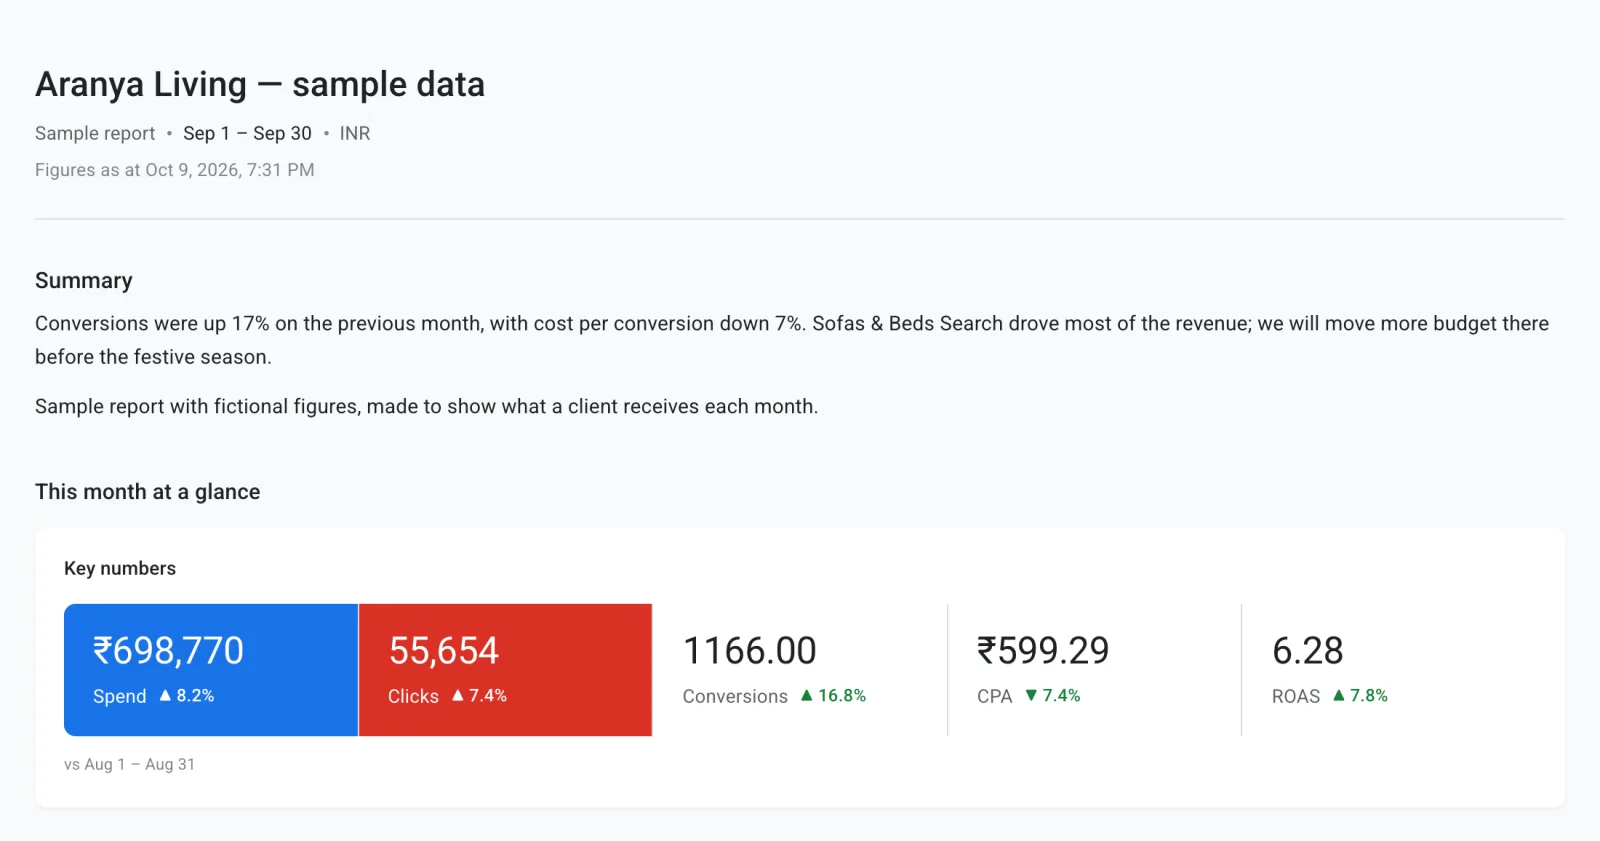
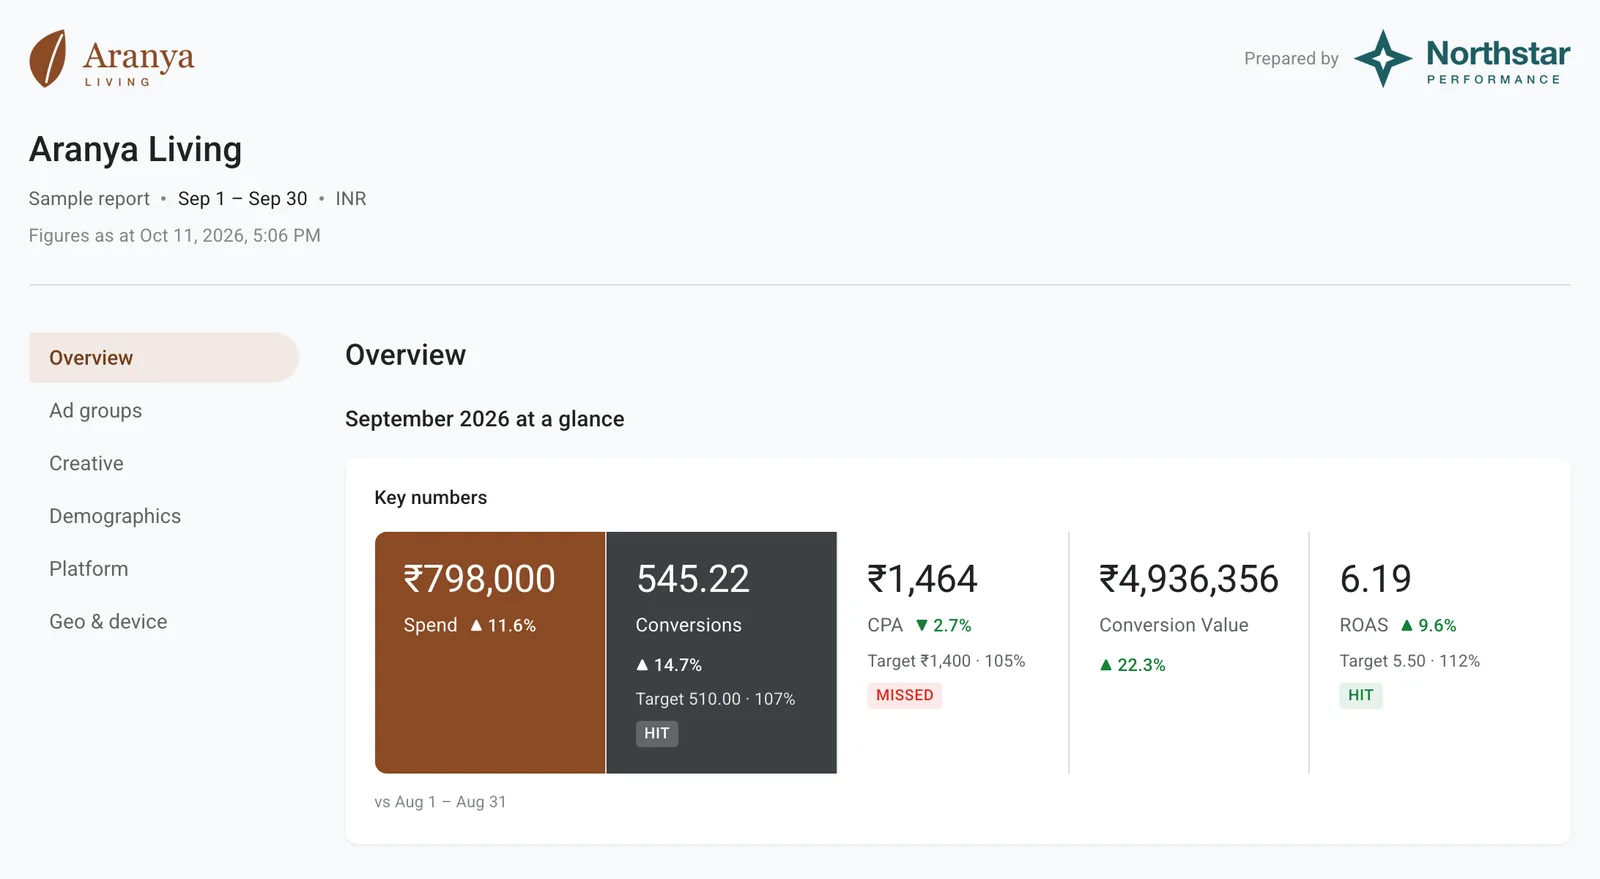
Homepage: screenshots of the six-page sample, and a button that opens it
The screenshots and link-preview image now show the new sample report: the client's and the
agency's logos, the page menu, headline numbers against targets, the campaign table against
last month with its note, and the daily trend with its note. "See a sample report" opens the
live sample instead of scrolling to the screenshot.

diff --git a/index.html b/index.html
@@ -45,15 +45,15 @@
         </p>
         <div class="cta-row">
           <a class="btn btn-primary" href="https://roster-1035727789436.asia-southeast1.run.app/signup" data-cta="hero_signup">Get started free</a>
-          <a class="btn btn-quiet" href="#report" data-sample-link data-cta="hero_sample">See a sample report</a>
+          <a class="btn btn-quiet" href="https://roster-1035727789436.asia-southeast1.run.app/s/0MCZfSW692qh3RDzP3k-OvG4_78guCCv" target="_blank" rel="noopener" data-sample-link data-cta="hero_sample">See a sample report</a>
         </div>
         <p class="cta-note">Free during early access. No card needed.</p>
       </div>
 
       <figure class="shot shot-hero">
         <div class="shot-frame">
-          <img src="img/report-hero.webp" width="1600" height="841"
-               alt="A client's monthly Google Ads report in Roster: a written summary, then spend, clicks, conversions, cost per conversion and ROAS, each compared with the previous month." />
+          <img src="img/report-hero.webp" width="1600" height="879"
+               alt="A client's monthly Google Ads report: the client's logo and 'Prepared by' the agency's, a menu of six pages, and spend, conversions, cost per conversion, conversion value and ROAS, each compared with the previous month and checked against the client's targets." />
         </div>
         <figcaption>A sample report, with fictional figures.</figcaption>
       </figure>
@@ -117,8 +117,8 @@
       <div class="band-head">
         <h2>What your client receives</h2>
         <p>
-          A clean, consistent report every month, in the client's own currency, with your
-          commentary at the top.
+          A clean, consistent report every month, in the client's own currency and under your
+          agency's name, with your notes beside the charts they explain.
         </p>
       </div>
 
@@ -133,8 +133,8 @@
         </div>
         <figure class="shot">
           <div class="shot-frame">
-            <img src="img/report-campaigns.webp" width="1600" height="560" loading="lazy"
-                 alt="A campaign table listing five campaigns with spend, clicks, click-through rate, conversions, cost per conversion and ROAS." />
+            <img src="img/report-campaigns.webp" width="1600" height="1238" loading="lazy"
+                 alt="A campaign table listing five campaigns with spend, clicks, conversions, cost per conversion, conversion value and ROAS, each with its change on last month, followed by the agency's written note on what the table shows." />
           </div>
         </figure>
       </div>
@@ -149,8 +149,8 @@
         </div>
         <figure class="shot">
           <div class="shot-frame">
-            <img src="img/report-trend.webp" width="1600" height="720" loading="lazy"
-                 alt="A line chart of daily spend and conversions across September." />
+            <img src="img/report-trend.webp" width="1600" height="889" loading="lazy"
+                 alt="A line chart of daily spend and conversions across September, with the agency's note beside it on weekends and the climb into the festive season." />
           </div>
         </figure>
       </div>
